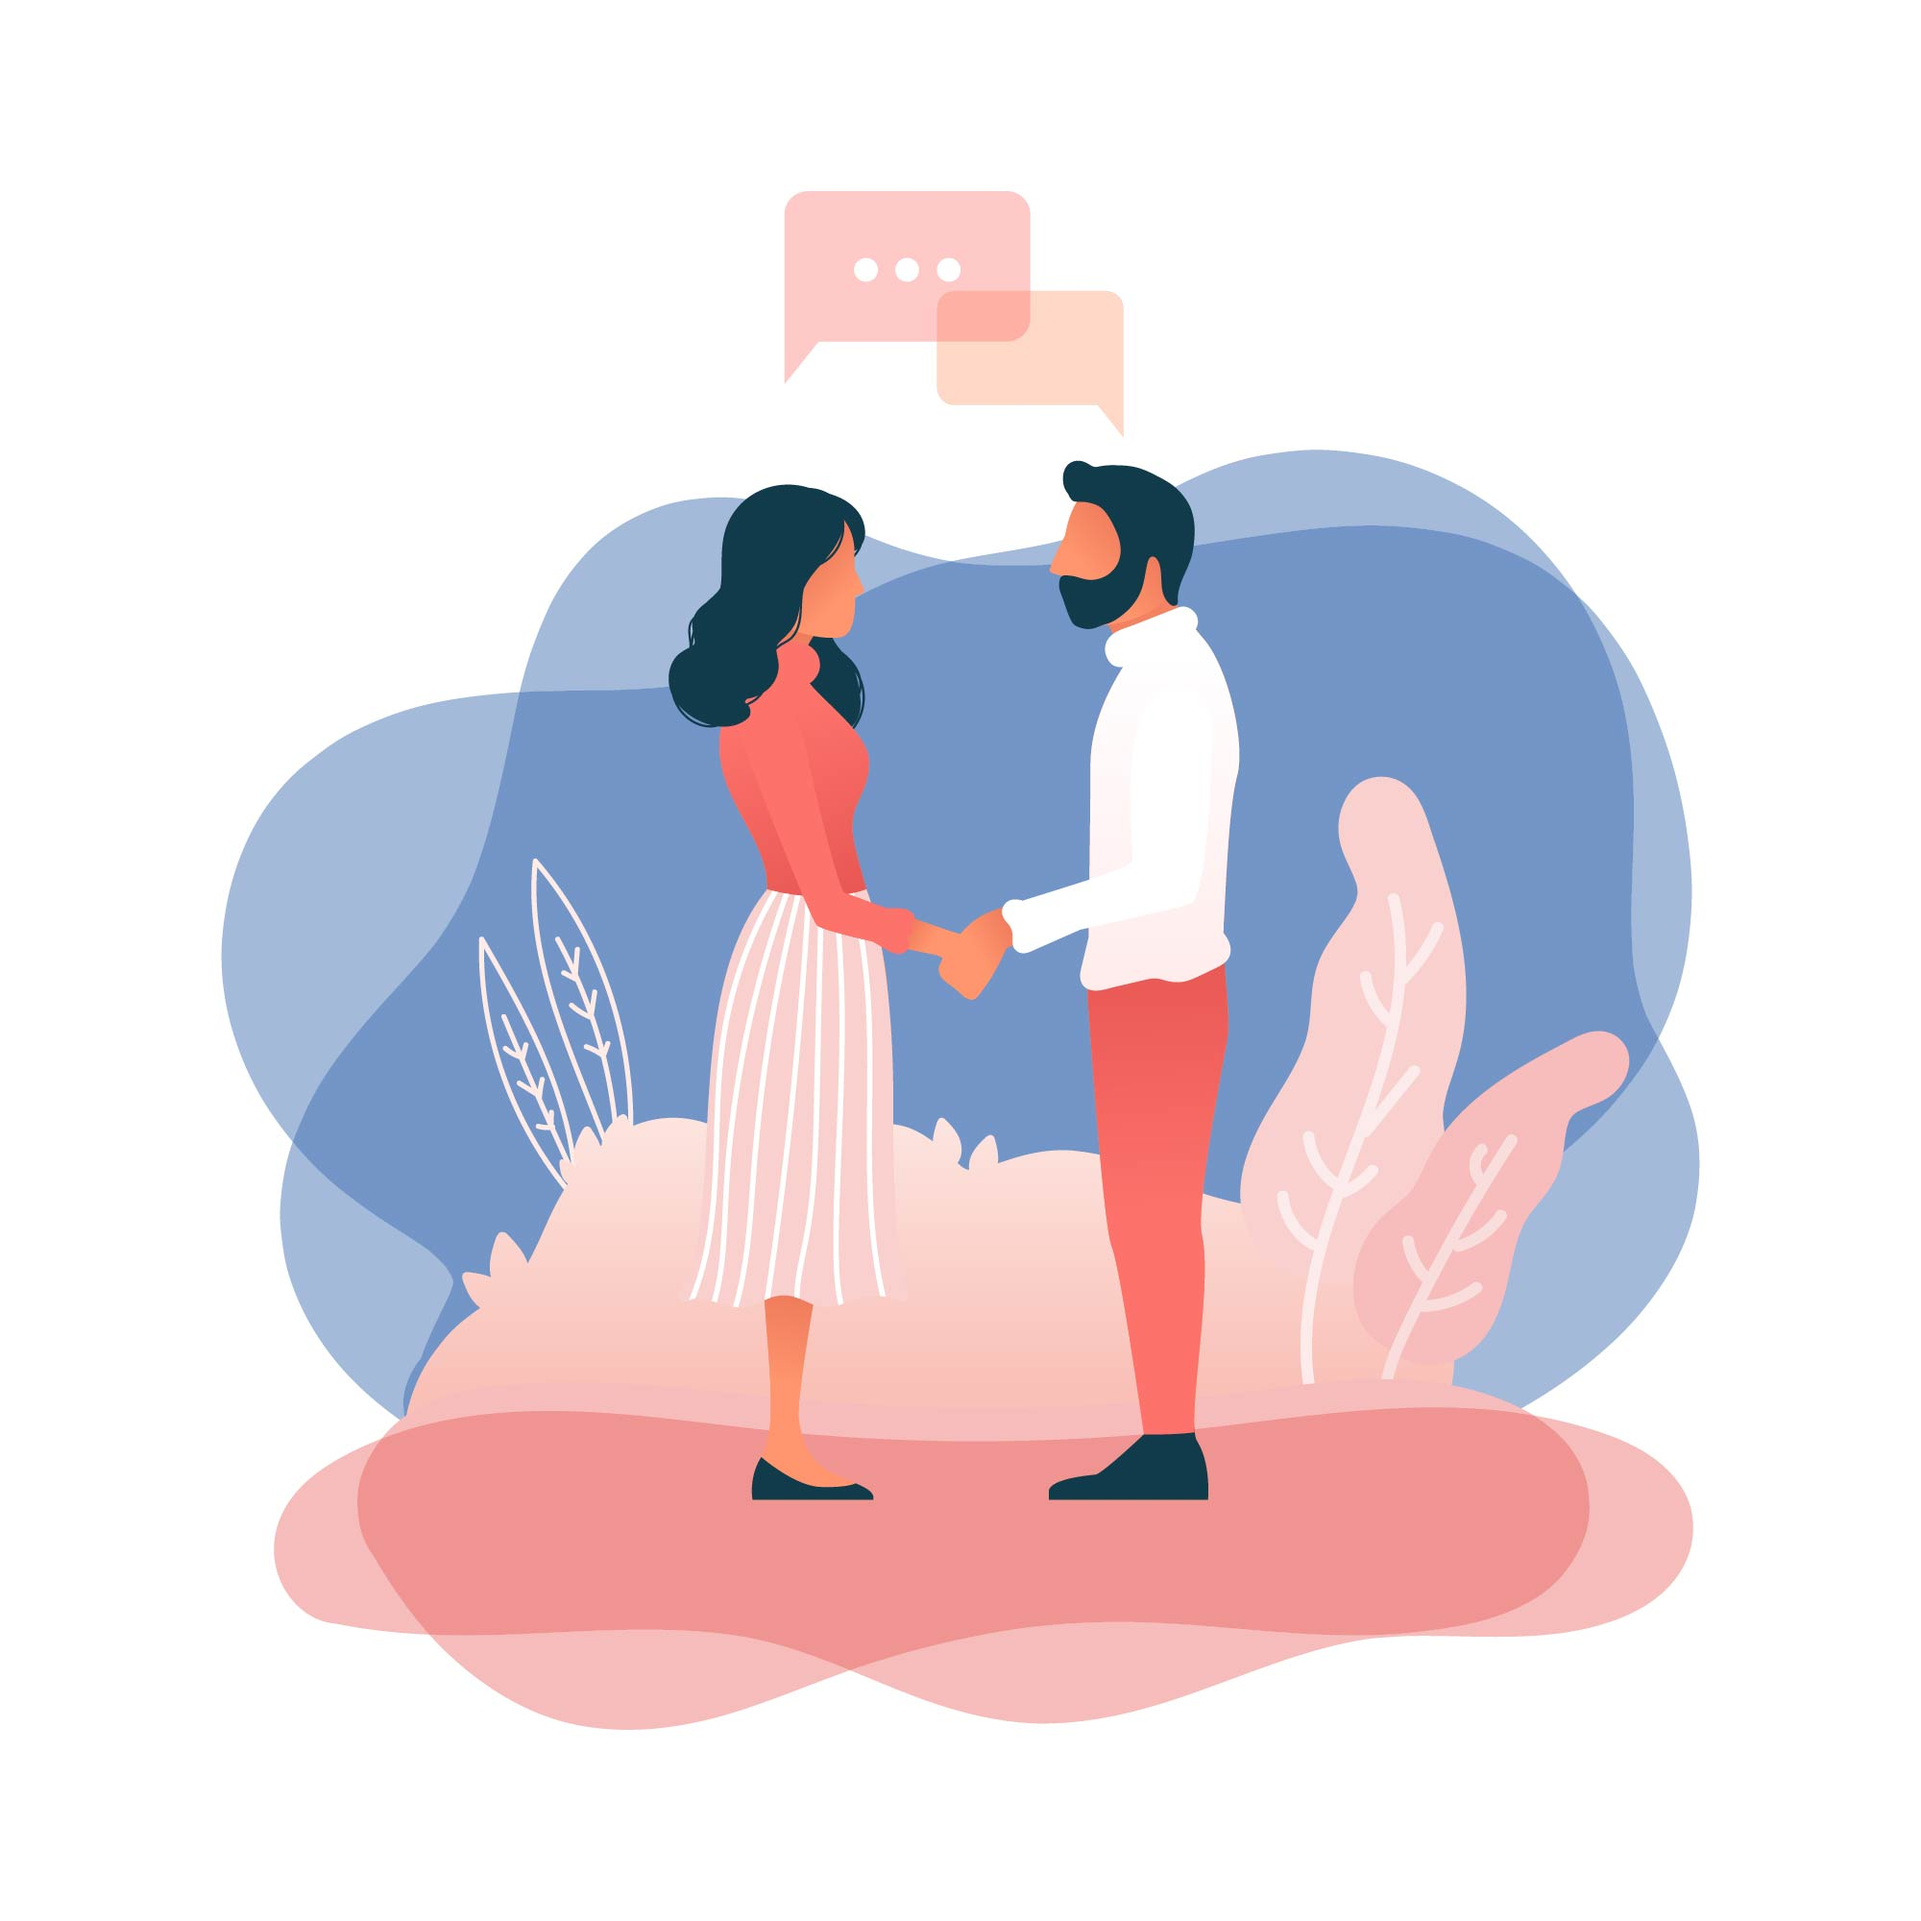
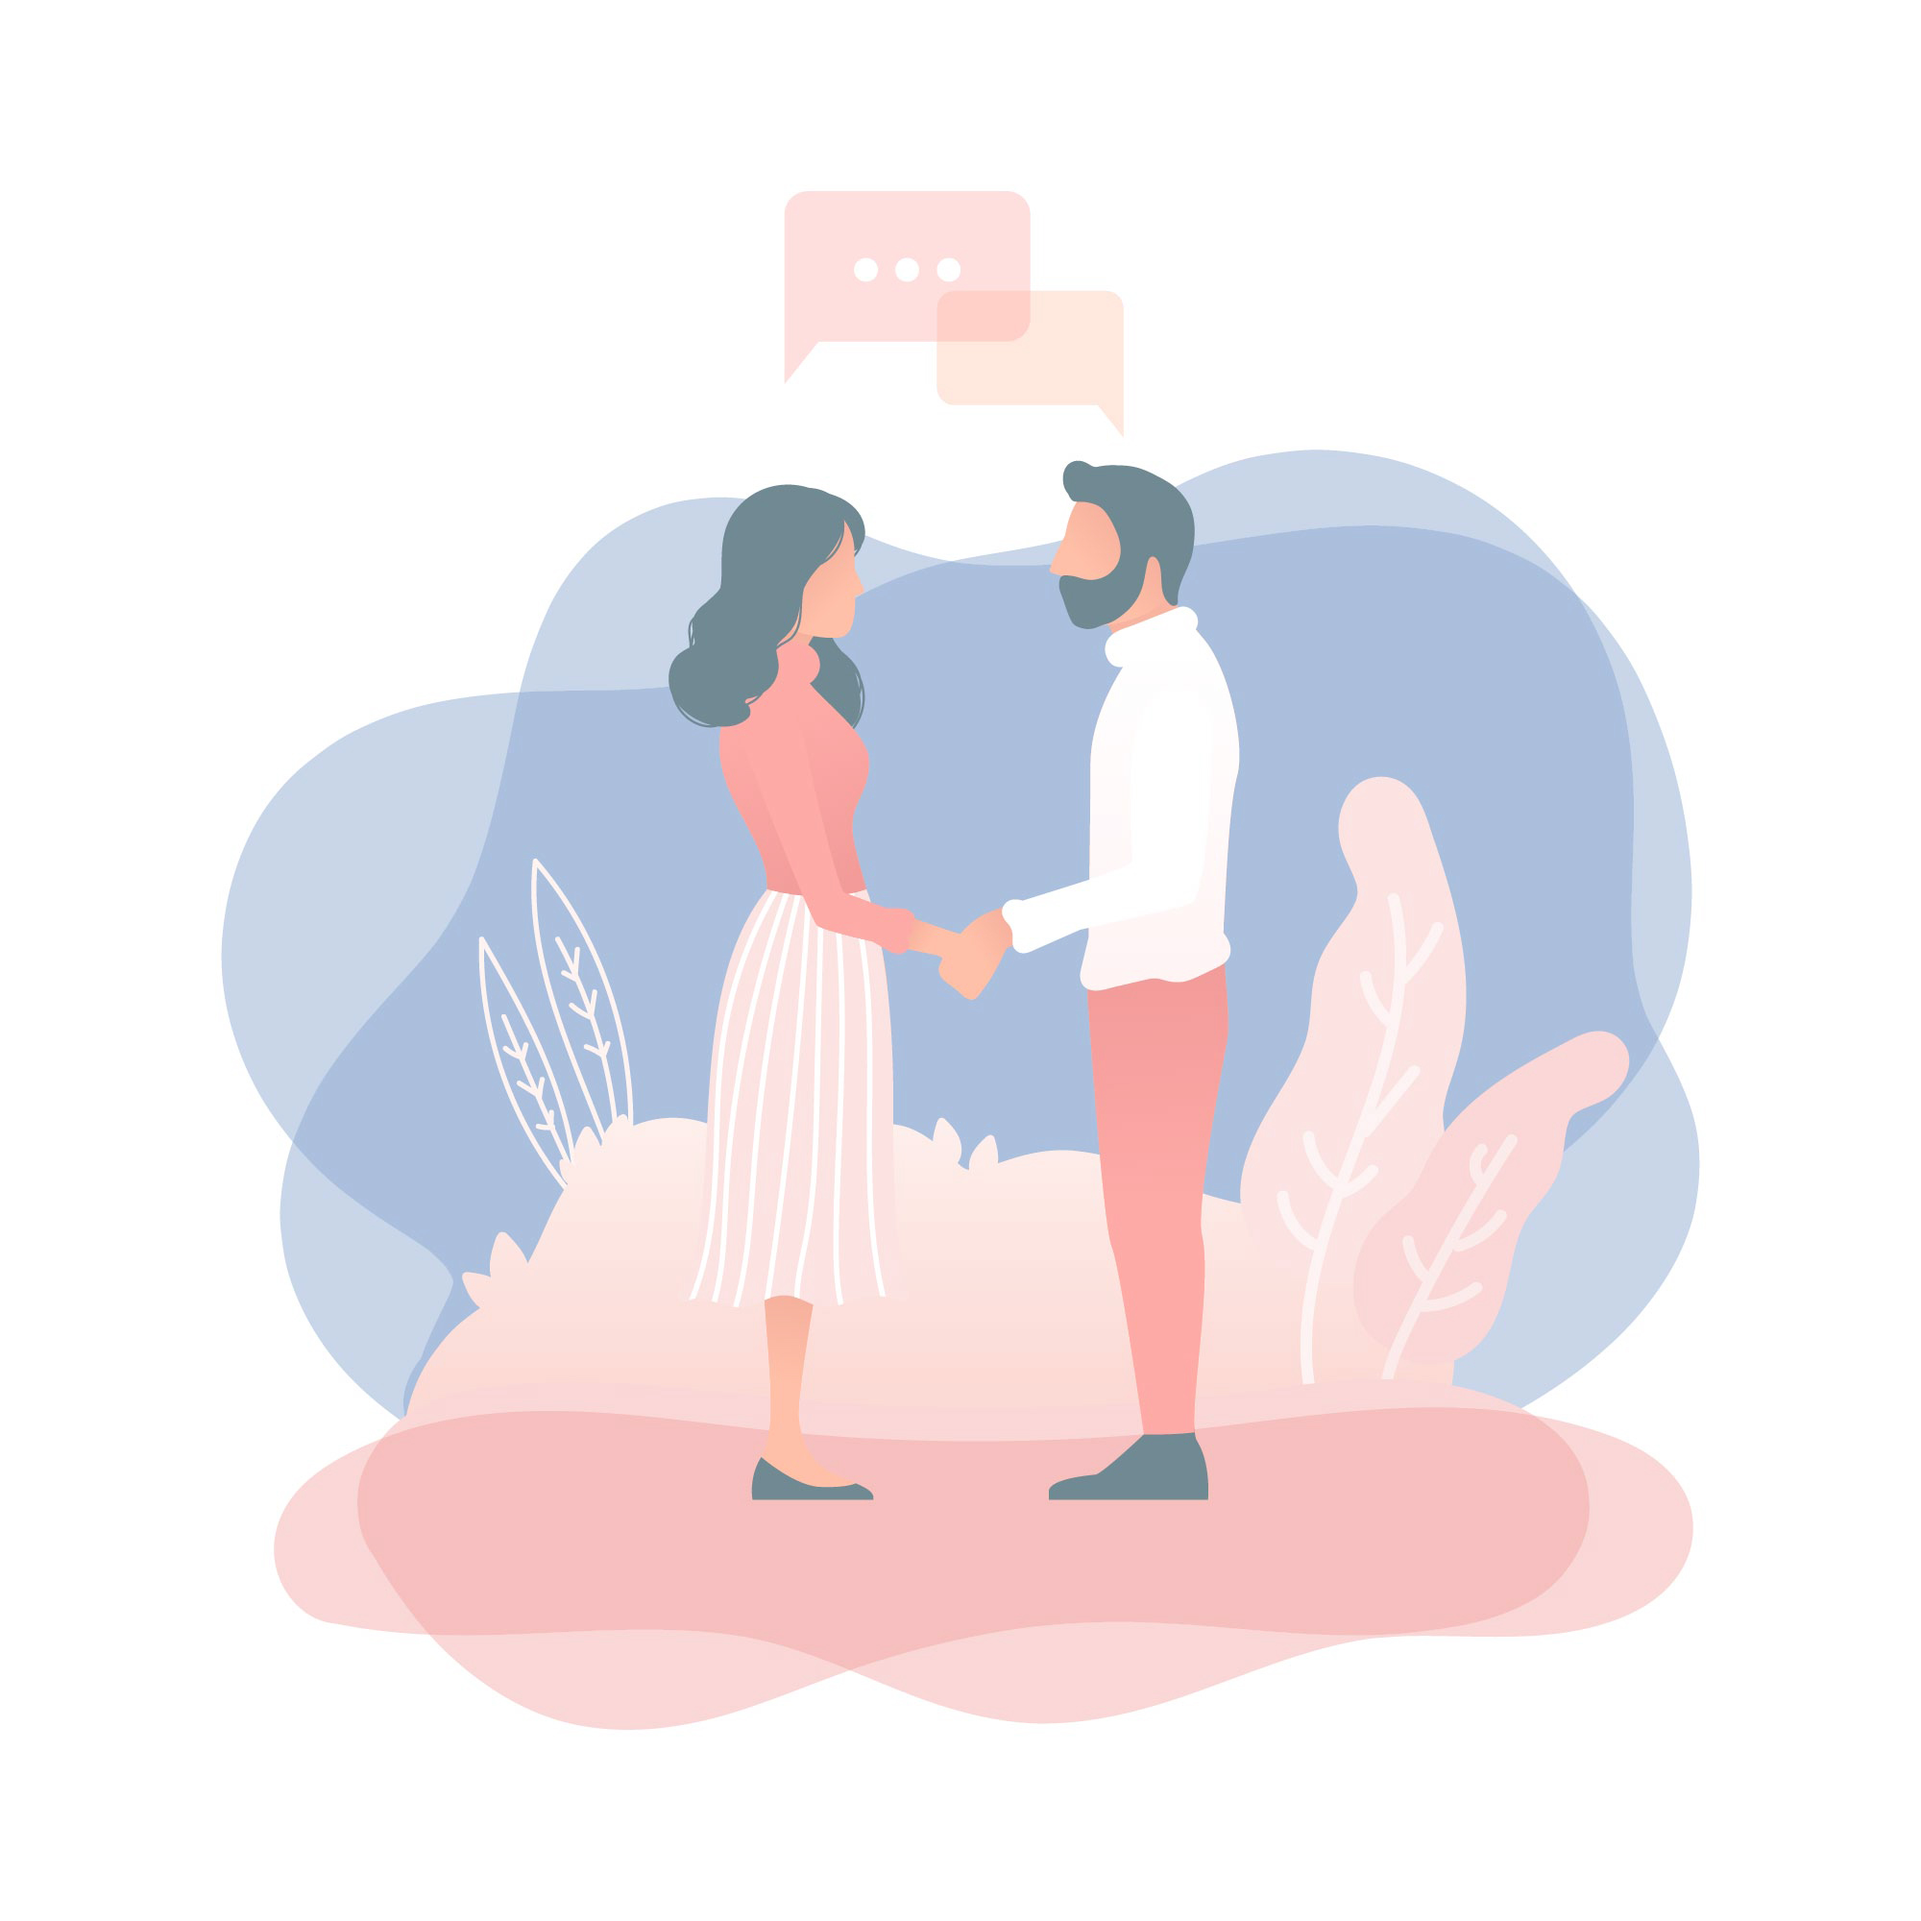
add landing page

diff --git a/public/css/main.css b/public/css/main.css
@@ -1,1 +1,1 @@
-*{border:none;margin:0;padding:0;box-sizing:border-box}body{color:blue;font-family:arial,helvetica,sans-serif;font-size:16px}a{display:block;color:red;margin:1em 0}.new-message{padding:10px;background-color:blue;color:#fff;border-radius:8px;float:left;clear:both}.my-message{background-color:green;float:right}html{background:url(../image/mainbg.jpg) no-repeat center center fixed;-webkit-background-size:cover;-moz-background-size:cover;-o-background-size:cover;background-size:cover}body{position:relative;margin-top:60%}.mainContainer{background:rgba(255,255,255,.5);border-radius:25px;text-align:center;margin:auto;padding:20px;width:70%}.logo{margin:0 auto;width:30%}.user{display:flex;justify-content:center}.woman,.man{width:90%}@media only screen and (min-width: 768px){body{margin-top:25%}.mainContainer{width:50%}}@media only screen and (min-width: 1024px){body{margin-top:12.5%}.mainContainer{width:30%}}/*# sourceMappingURL=main.css.map */
+*{border:none;margin:0;padding:0;box-sizing:border-box}html{-webkit-background-size:cover;-moz-background-size:cover;-o-background-size:cover;background-size:cover}body{color:gray;font-family:arial,helvetica,sans-serif;font-size:16px;position:relative;margin-top:60%;opacity:85%;width:100%}#index{background:url(../image/mainbg.jpg) no-repeat center center fixed;-webkit-background-size:cover;-moz-background-size:cover;-o-background-size:cover;background-size:cover}#chat{background:url(../image/chatbg.jpg) no-repeat center center fixed}a{display:block;color:red;margin:1em 0}.new-message{padding:10px;background-color:#a2bbd9;color:#fff;border-radius:8px;float:left;clear:both}.my-message{background-color:#f5bdbd;float:right}.mainContainer{background:#fff;border-radius:25px;text-align:center;margin:auto;padding:20px;width:70%}.logo{margin:0 auto;width:30%}input[type=text],label,textarea{display:flex;width:100%;padding:12px;border:1px solid #ccc;border-radius:4px;box-sizing:border-box;margin-top:6px;margin-bottom:16px;resize:vertical}.user{display:flex;justify-content:center}.woman,.man{width:90%}h3{color:gray}@media only screen and (min-width: 768px){body{margin-top:25%}.mainContainer{width:50%}}@media only screen and (min-width: 1024px){body{margin-top:12.5%}.mainContainer{width:30%}}#app{background:rgba(255,255,255,.8);border-radius:25px;text-align:center;margin:auto;padding:20px;width:70%;height:90%}@media only screen and (min-width: 768px){#app{width:50%}}@media only screen and (min-width: 1024px){#app{width:30%}}/*# sourceMappingURL=main.css.map */

diff --git a/public/scripts/main.js b/public/scripts/main.js
@@ -6,12 +6,27 @@ import ChatMessage from "./components/TheMessageComponent.js"
     // load the socket library and make connection
     const socket = io();
 
-    // messenger service event handling -> incoming fromthe manager
+    // messenger service event handling -> incoming from the manager
     function setUserID({sID, message}) {
         // incoming connected event with the data
         // debugger;
         vm.socketID = sID;
     }
+
+    // Join user to chat
+    function userJoin(id, username) {
+    const user = { id, username};
+  
+    users.push(users);
+  
+    return users;
+    }
+
+    // Get current user
+    function getCurrentUser(id) {
+    return users.find(user => user.id === id);
+  }
+
 
     function appendMessage(message) {
         // debugger;
@@ -22,6 +37,7 @@ import ChatMessage from "./components/TheMessageComponent.js"
         data: {
             // incoming from the server
             messages: [],
+            user: [],
             nickname: "",
             username: "",
             socketID: "",
@@ -37,7 +53,9 @@ import ChatMessage from "./components/TheMessageComponent.js"
         methods: {
             dispatchMessage() {
                 // debugger;
-                socket.emit('chatmessage', {content: this.message, name: this.nickname || "Anonymous"})
+                socket.emit('chatmessage', {content: this.message, name: this.username || "Anonymous"})
+                
+                this.message = "";
             }
         },
 

diff --git a/public/css/modules/index.css b/public/css/modules/index.css
@@ -1,1 +1,17 @@
-html{background:url(../image/mainbg.jpg) no-repeat center center fixed;-webkit-background-size:cover;-moz-background-size:cover;-o-background-size:cover;background-size:cover}body{position:relative;margin-top:60%}.mainContainer{background:rgba(255,255,255,.5);border-radius:25px;text-align:center;margin:auto;padding:20px;width:70%}.logo{margin:0 auto;width:30%}.user{display:flex;justify-content:center}.woman,.man{width:90%}@media only screen and (min-width: 768px){body{margin-top:25%}.mainContainer{width:50%}}@media only screen and (min-width: 1024px){body{margin-top:12.5%}.mainContainer{width:30%}}/*# sourceMappingURL=index.css.map */
+/* Error: Undefined variable.
+ *    ,
+ * 39 |   color: $main-text-color;
+ *    |          ^^^^^^^^^^^^^^^^
+ *    '
+ *   assets/sass/modules/index.scss 39:10  root stylesheet */
+
+body::before {
+  font-family: "Source Code Pro", "SF Mono", Monaco, Inconsolata, "Fira Mono",
+      "Droid Sans Mono", monospace, monospace;
+  white-space: pre;
+  display: block;
+  padding: 1em;
+  margin-bottom: 1em;
+  border-bottom: 2px solid black;
+  content: "Error: Undefined variable.\a    \2577 \a 39 \2502    color: $main-text-color;\a    \2502           ^^^^^^^^^^^^^^^^\a    \2575 \a   assets/sass/modules/index.scss 39:10  root stylesheet";
+}

diff --git a/index.html b/index.html
@@ -1,5 +1,5 @@
 <!DOCTYPE html>
-<html lang="en">
+<html id="index" lang="en">
 <head>
     <meta charset="UTF-8">
     <meta name="viewport" content="width=device-width, initial-scale=1.0">
@@ -24,11 +24,17 @@
 
          <div class="mainContainer">
             <section class="logo"><img src="image/love.svg" alt="loveChat"></section>
-            <section class="user">
+            
+            <section class="form">
+                <input type="text" id="username" placeholder="enter username">
+                <!-- <input type="text" id="password" placeholder="type password"> -->
+            </section>
+
+            <section class="icon">
                 <a href="/chat"><img class="woman" src="image/woman.svg" alt="woman"></a>
                 <a href="/chat"><img class="man" src="image/man.svg" alt="man"></a>
             </section>
-            <h3> CHOOSE YOUR USER ICON</h3>
+            <h4>CHOOSE YOUR USER ICON TO JOIN THE CHAT</h4>
         </div>
     </main>
 </body>

diff --git a/assets/sass/modules/_defaults.scss b/assets/sass/modules/_defaults.scss
@@ -5,11 +5,36 @@
   box-sizing: border-box;
 }
 
+html {
+  -webkit-background-size: cover;
+  -moz-background-size: cover;
+  -o-background-size: cover;
+  background-size: cover;
+}
+
 body {
   // background-color: $main-bg-color;
   color: $main-text-color;
+
   font-family: $default-family;
   font-size: 16px;
+
+  position: relative;
+  margin-top: 60%;
+  opacity: 85%;
+  width: 100%;
+}
+
+#index {
+  background: url(../image/mainbg.jpg) no-repeat center center fixed;
+  -webkit-background-size: cover;
+  -moz-background-size: cover;
+  -o-background-size: cover;
+  background-size: cover;
+}
+
+#chat {
+  background: url(../image/chatbg.jpg) no-repeat center center fixed;
 }
 
 a {
@@ -22,7 +47,7 @@ a {
 
 .new-message {
   padding: 10px;
-  background-color: blue;
+  background-color: #a2bbd9;
   color: white;
   border-radius: 8px;
   float: left;
@@ -30,6 +55,6 @@ a {
 }
 
 .my-message {
-  background-color: green;
+  background-color: #f5bdbd;
   float: right;
 }

diff --git a/assets/sass/modules/index.scss b/assets/sass/modules/index.scss
@@ -1,18 +1,5 @@
-html {
-  background: url(../image/mainbg.jpg) no-repeat center center fixed;
-  -webkit-background-size: cover;
-  -moz-background-size: cover;
-  -o-background-size: cover;
-  background-size: cover;
-}
-
-body {
-  position: relative;
-  margin-top: 60%;
-}
-
 .mainContainer {
-  background: rgba(255, 255, 255, 0.5);
+  background: rgba(255, 255, 255);
   border-radius: 25px;
   text-align: center;
   margin: auto;
@@ -25,6 +12,20 @@ body {
   width: 30%;
 }
 
+input[type="text"],
+label,
+textarea {
+  display: flex;
+  width: 100%;
+  padding: 12px;
+  border: 1px solid #ccc;
+  border-radius: 4px;
+  box-sizing: border-box;
+  margin-top: 6px;
+  margin-bottom: 16px;
+  resize: vertical;
+}
+
 .user {
   display: flex;
   justify-content: center;
@@ -32,6 +33,10 @@ body {
 .woman,
 .man {
   width: 90%;
+}
+
+h3 {
+  color: $main-text-color;
 }
 
 @media only screen and (min-width: 768px) {

diff --git a/chat.html b/chat.html
@@ -1,5 +1,5 @@
 <!DOCTYPE html>
-<html lang="en">
+<html id="chat" lang="en">
 <head>
     <meta charset="UTF-8">
     <meta name="viewport" content="width=device-width, initial-scale=1.0">
@@ -10,9 +10,15 @@
 </head>
 <body>
     <main id="app">
-        <h2>this is where my chat messages will show</h2>
+        <h2>Your LoveChat begins here.</h2>
 
         <!-- vue custom message comonent goes here -->
+
+       <section class="user">
+            <ul id="users" v-for="user in users">
+                <newmessage :user="username" :socketid="socketID"></newmessage>
+            </ul>
+        </section>
 
         <section class="messages">
             <ul id="messages" v-for="message in messages">

diff --git a/public/scripts/components/TheMessageComponent.js b/public/scripts/components/TheMessageComponent.js
@@ -1,18 +1,19 @@
 export default {
-    props: ['msg'],
+    props: ['msg', 'username', 'socketid'],
 
     template:
     `
     <article class="new-message" :class="{ 'my-message' : matchedID }">
         <h1>{This is a message}</h1>
-        <h4>{{msg.message.name}} says:</h4>
+        <h4>{{msg.username}} says:</h4>
         <p>{{msg.message.content}}</p>
     </article>
     `,
-
+    
     data: function() {
         return {
             matchedID: this.socketid == this.msg.id
         }
     }
 }
+

diff --git a/assets/sass/modules/chat.scss b/assets/sass/modules/chat.scss
@@ -1,0 +1,21 @@
+#app {
+  background: rgba(255, 255, 255, 0.8);
+  border-radius: 25px;
+  text-align: center;
+  margin: auto;
+  padding: 20px;
+  width: 70%;
+  height: 90%;
+}
+
+@media only screen and (min-width: 768px) {
+  #app {
+    width: 50%;
+  }
+}
+
+@media only screen and (min-width: 1024px) {
+  #app {
+    width: 30%;
+  }
+}

diff --git a/public/css/modules/chat.css b/public/css/modules/chat.css
@@ -1,0 +1,1 @@
+#app{background:rgba(255,255,255,.8);border-radius:25px;text-align:center;margin:auto;padding:20px;width:70%;height:90%}@media only screen and (min-width: 768px){#app{width:50%}}@media only screen and (min-width: 1024px){#app{width:30%}}/*# sourceMappingURL=chat.css.map */

diff --git a/assets/sass/modules/_vars.scss b/assets/sass/modules/_vars.scss
@@ -1,5 +1,6 @@
-$main-bg-color: orange;
-$main-text-color: blue;
+// $main-bg-color: orange;
+// $main-text-color: blue;
+$main-text-color: gray;
 
 $main-background-image: url(../image/mainbg.jpg);
 

diff --git a/assets/sass/main.scss b/assets/sass/main.scss
@@ -4,5 +4,6 @@
 @import "modules/defaults";
 
 @import "modules/index";
+@import "modules/chat";
 
 // import mqs here (later)
